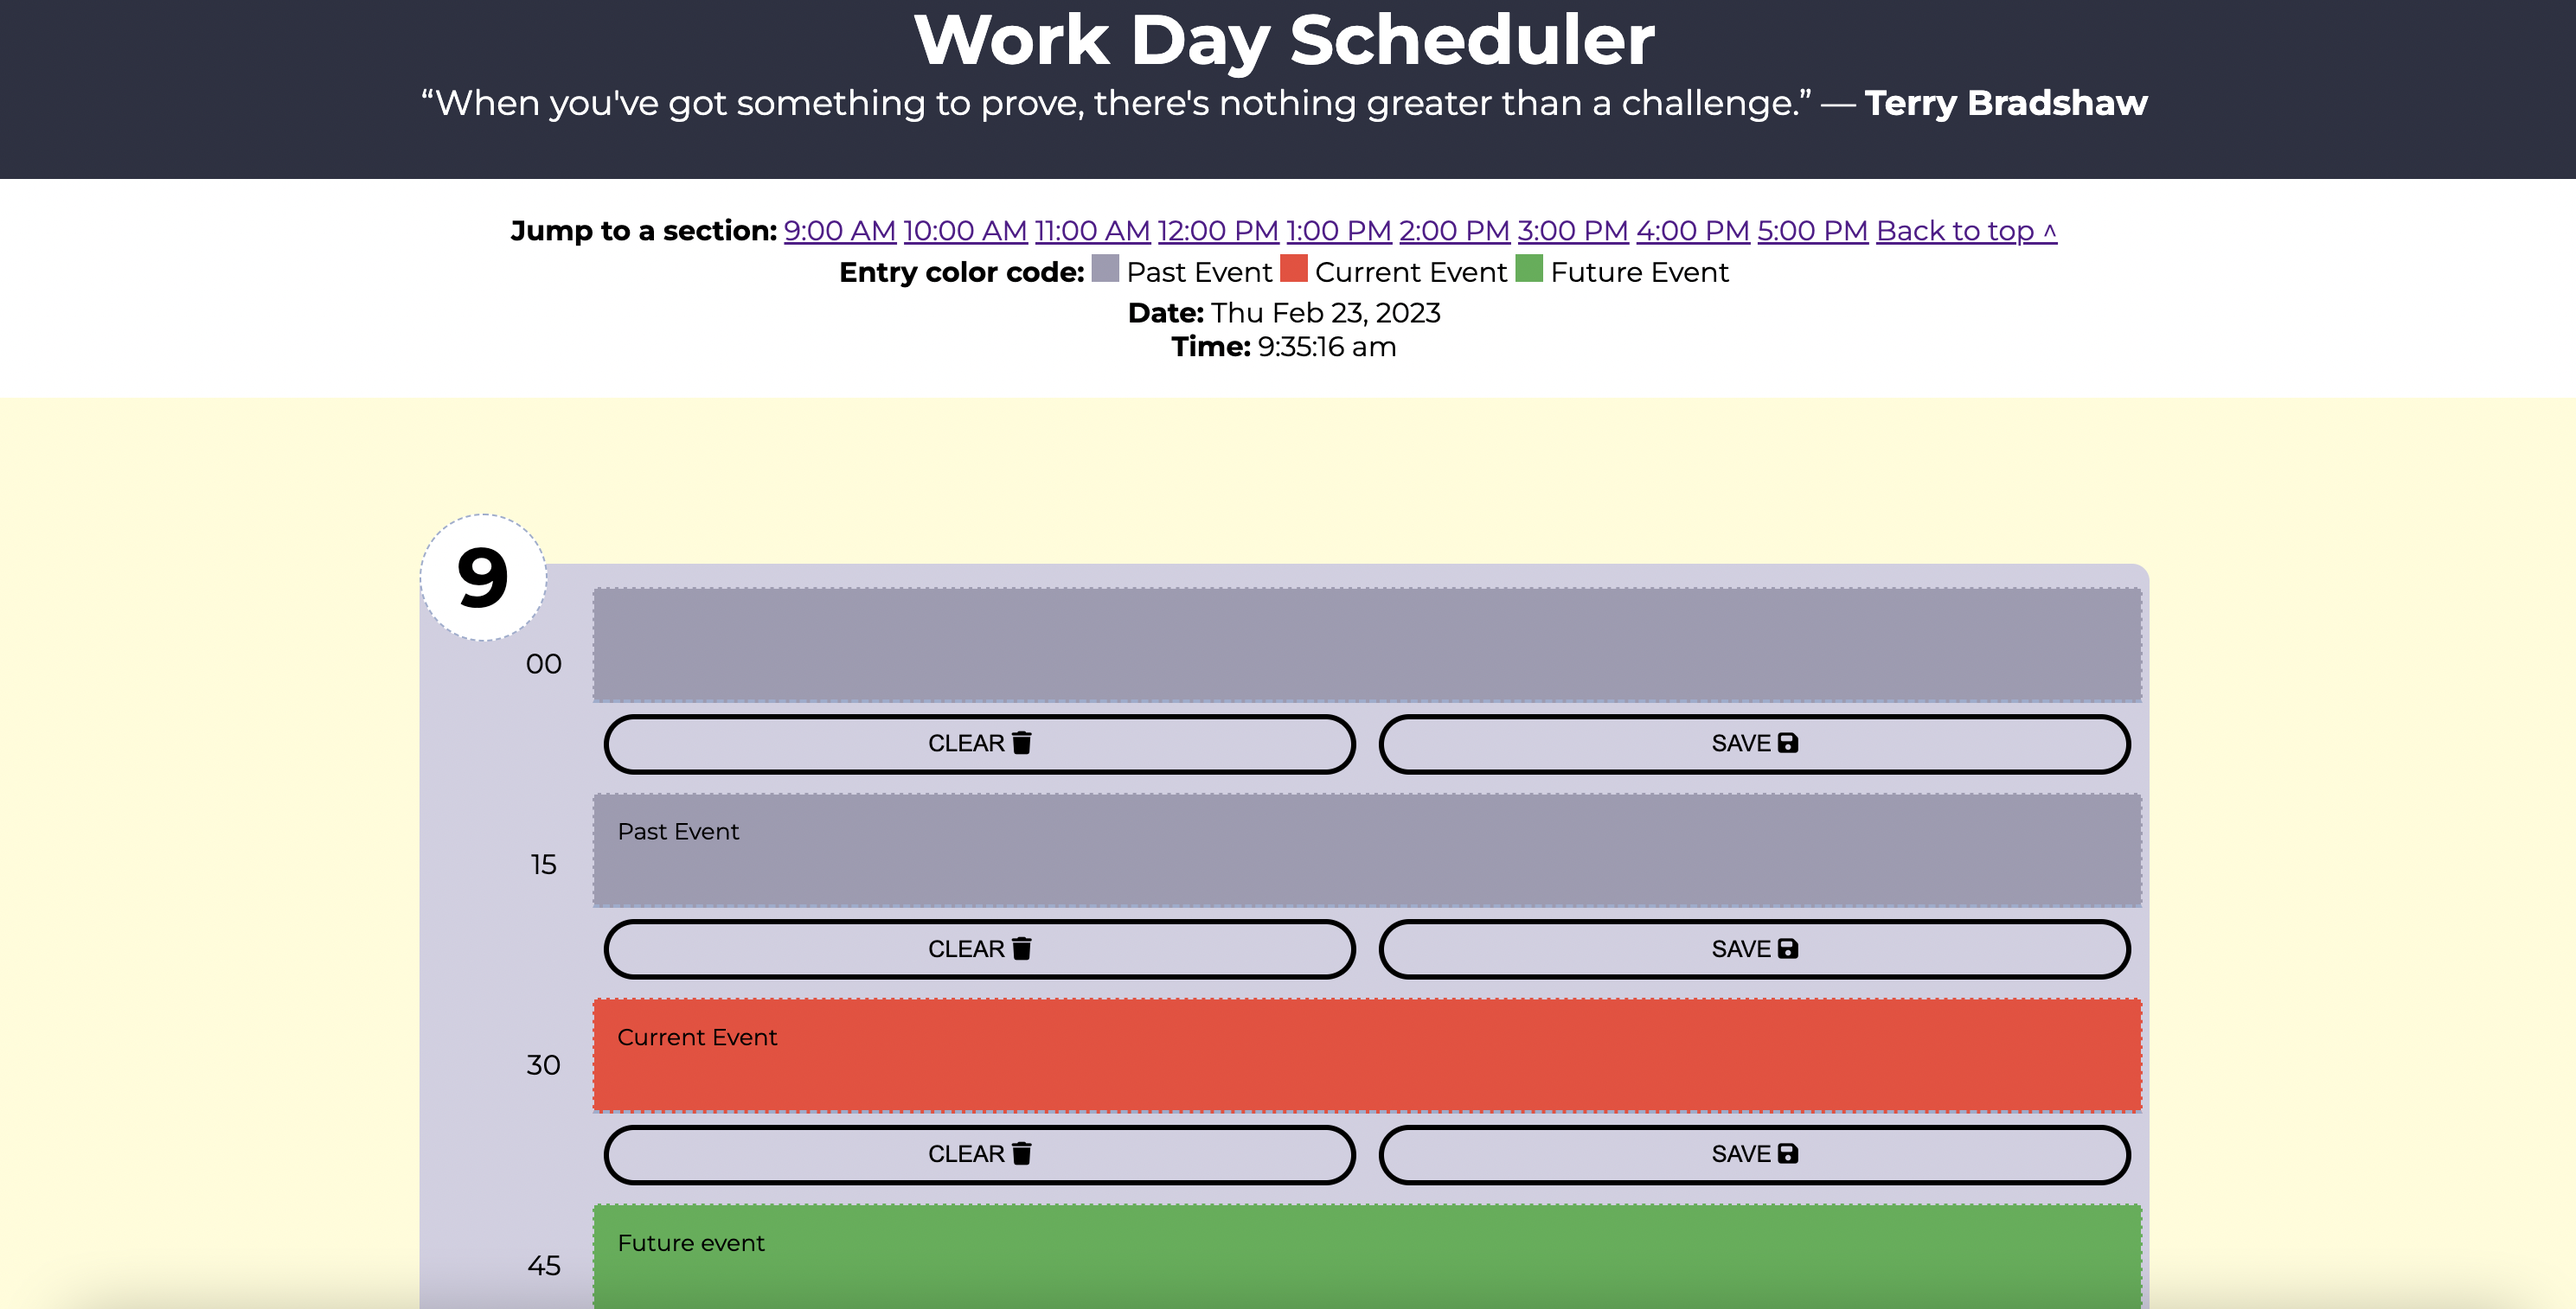
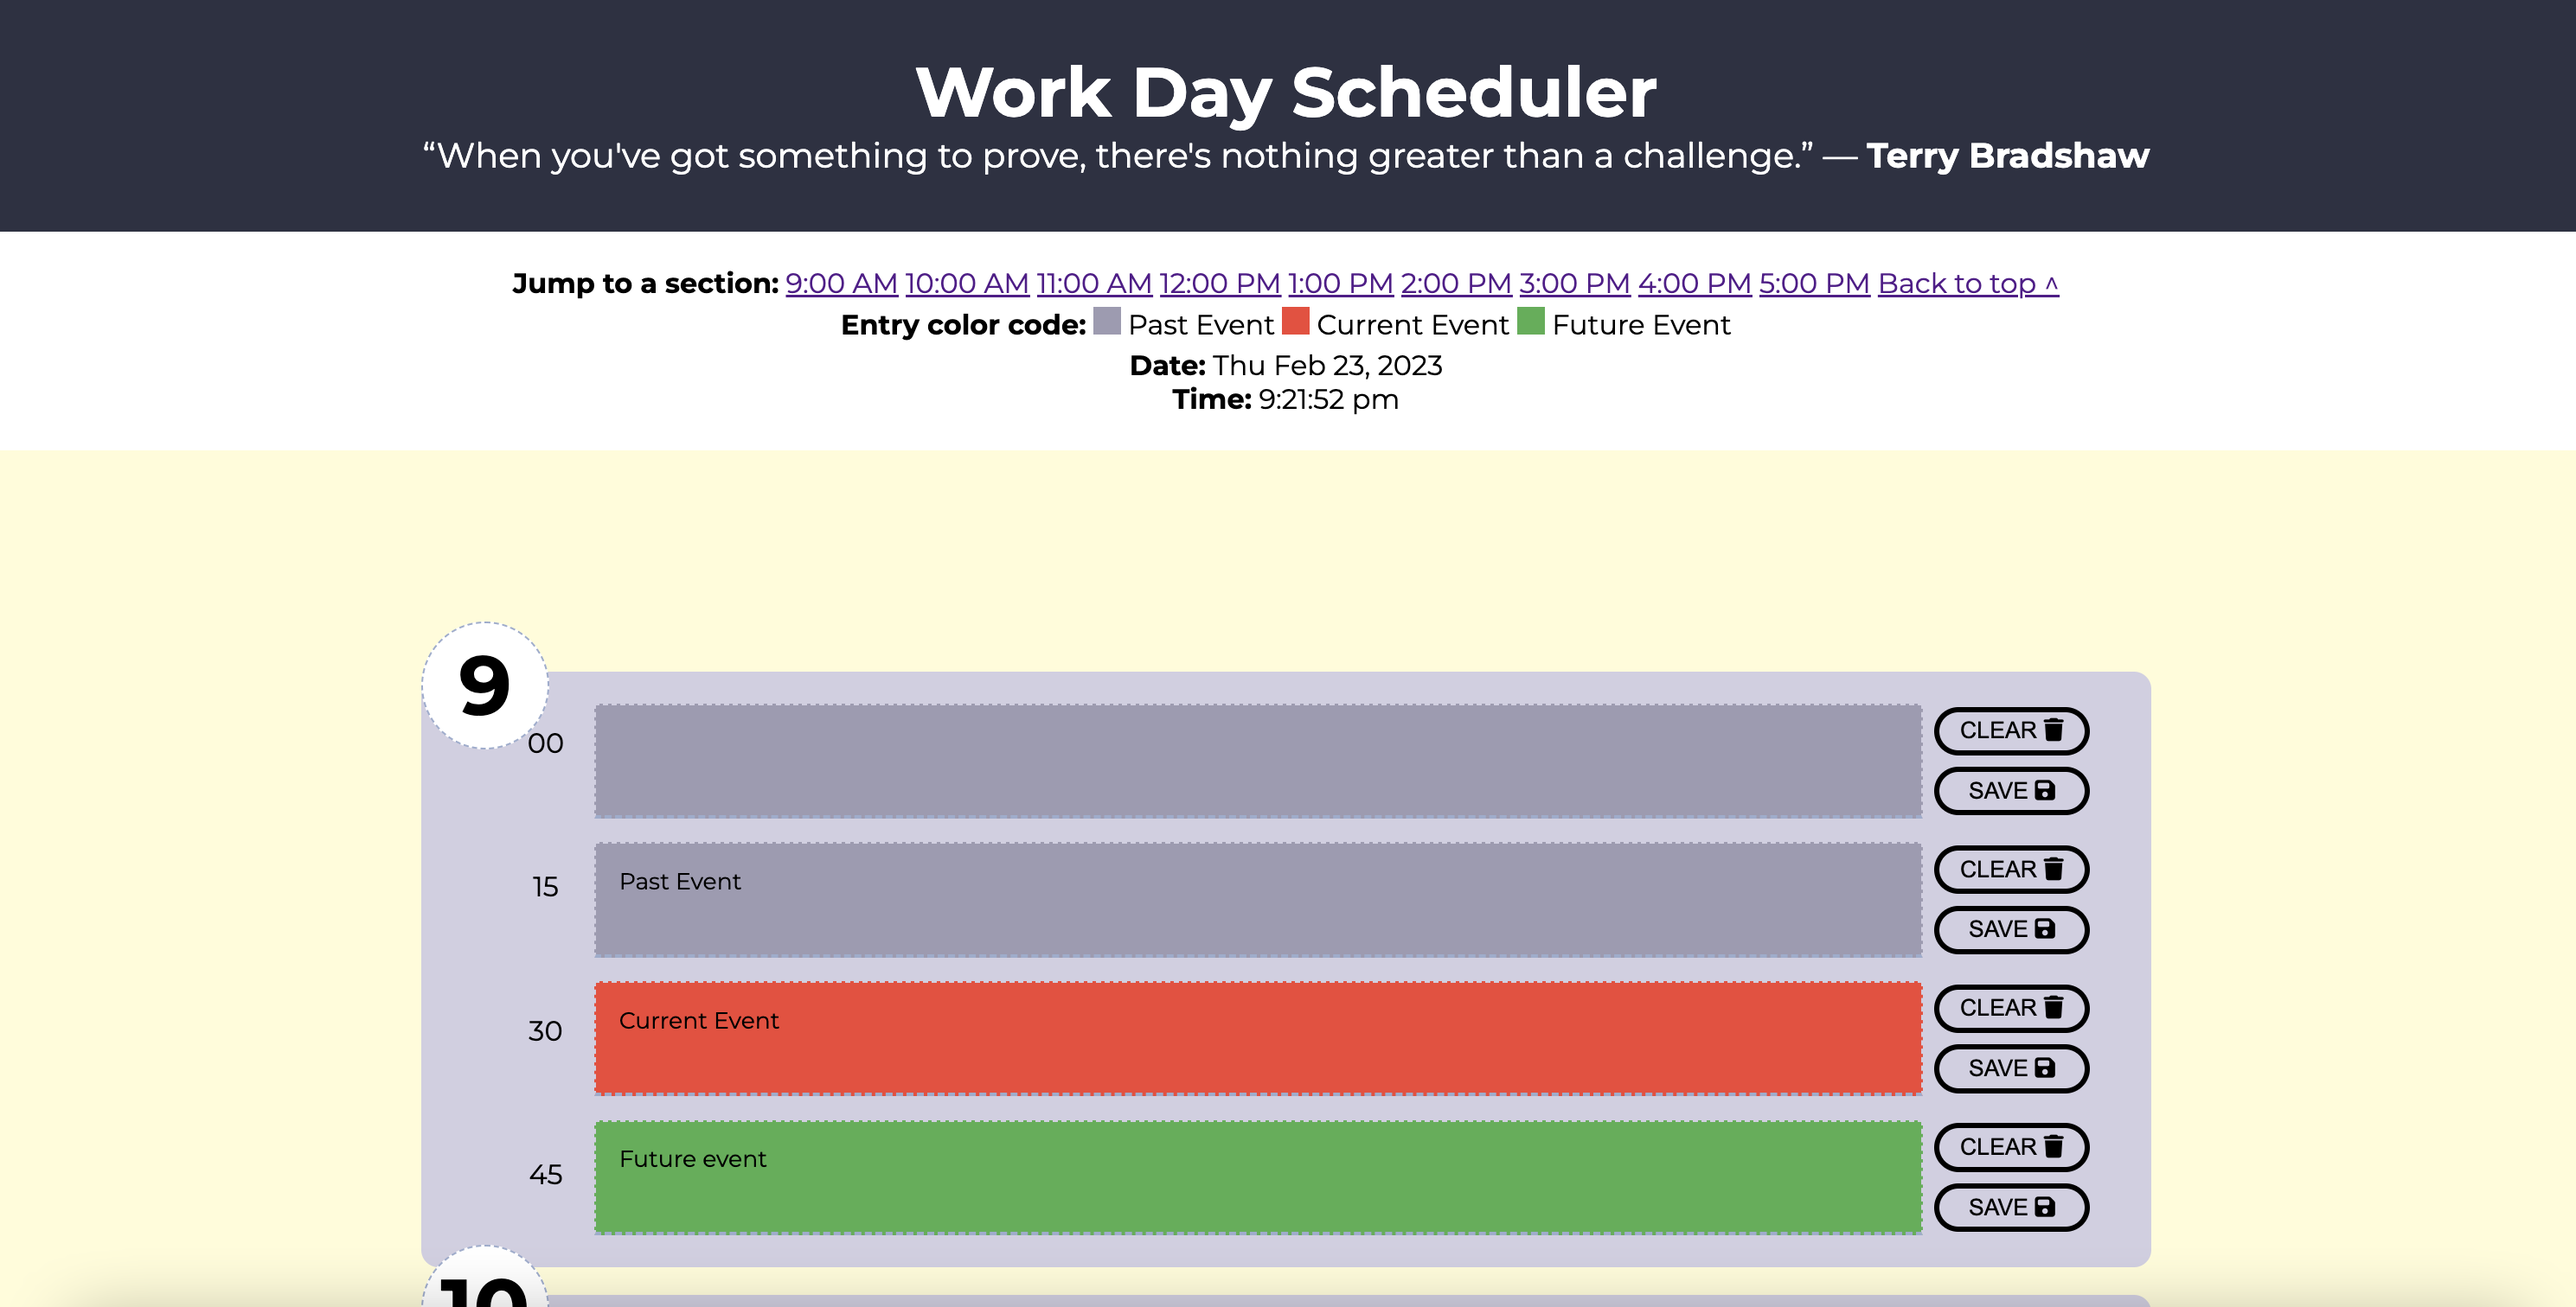
Updated CSS styles and updated screenshot in README

diff --git a/assets/css/styles.css b/assets/css/styles.css
@@ -156,20 +156,20 @@ header p {
 
    The base styles for the scheduler
 ************************************************/
-.schedule-wrapper {
-    margin-top: 87px;
+.scheduler-wrapper {
+    margin: 8em 0;
 }
 .scheduler {
     display: flex;
     width: 90%;
     max-width: 1000px;
-    margin: 6em auto;
+    margin: 1em auto 0;
     border-radius: 10px;
     align-items: stretch;
     justify-content: center;
     background-color: var(--bg-color-two);
     position: relative;
-    scroll-margin-top: 325px;
+    scroll-margin-top: 150px;
 }
 @media screen and (min-width: 600px) {
     .scheduler {
@@ -204,13 +204,13 @@ header p {
 }
 .scheduler .min-wrapper ul li {
     list-style-type: none;
-    line-height: 7.25;
+    line-height: 5.2;
     font-size: 1em;
     font-family: var(--font-main-style);
 }
 .scheduler .entries-wrapper ul {
     width: 100%;
-    margin-top: 0.6em;
+    margin: 0.6em 0;
 }
 .scheduler .entries-wrapper ul li {
     list-style-type: none;
@@ -222,21 +222,22 @@ header p {
     border-top: 1px dashed var(--bg-color-two);
     border-bottom: 2px dashed var(--bg-color-three);
     font-family: var(--font-main-style);
-    width: 100%;
+    width: 70%;
     padding: 1em;
-    display: block;
+    display: inline-block;
     -webkit-box-sizing: border-box;
     -moz-box-sizing: border-box;
     box-sizing: border-box;
     resize: none;
     height: 5em;
+    flex: 1;
 }
 .scheduler .entries-wrapper ul li button {
     border: 3px solid var(--black);
     background-color: var(--bg-color-two);
-    padding: 0.5em;
+    padding: 0.25em;
     display: block;
-    width: 100%;
+    width: 70%;
     border-radius: 20px;
     margin: 0.5em;
     text-transform: uppercase;
@@ -248,13 +249,16 @@ header p {
 }
 .scheduler .entries-wrapper ul li form {
     padding: 0.25em 0.25em 0 0.25em;
+    display: flex;
+    align-items: center;
+    justify-content: space-evenly;
 }
 .scheduler .entries-wrapper ul li:nth-child(4) form {
     padding: 0.25em 0.25em 0.25em 0.25em;
 }
 .scheduler .btn-wrapper {
-    display: flex;
-    flex-direction: row;
+    display: inline-block;
+    flex: 0 0 8em;
 }
 
 /************************************************

diff --git a/assets/js/script.js b/assets/js/script.js
@@ -178,9 +178,13 @@ function colorCodeEntries() {
     let now = dayjs(),
         currentTime = now.format("h:mm"),
         fullTime = now.format("h:mm a"),
-        currentSetting = fullTime.substring(fullTime.indexOf(' ') + 1),
-        currentHour = currentTime.substring(0, currentTime.indexOf(":")), 
-        currentMinute = currentTime.substring(currentTime.lastIndexOf(':')+1),
+        //currentSetting = fullTime.substring(fullTime.indexOf(' ') + 1),
+        //currentHour = currentTime.substring(0, currentTime.indexOf(":")), 
+        //currentMinute = currentTime.substring(currentTime.lastIndexOf(':')+1),
+
+        currentSetting = "am",
+        currentHour = 9, 
+        currentMinute = 36,
         pmArr = ["6","7","8","9","10","11"],
         amArr = ["12","1","2","3","4","5","6","7","8"];
     // loop through the available entry times
